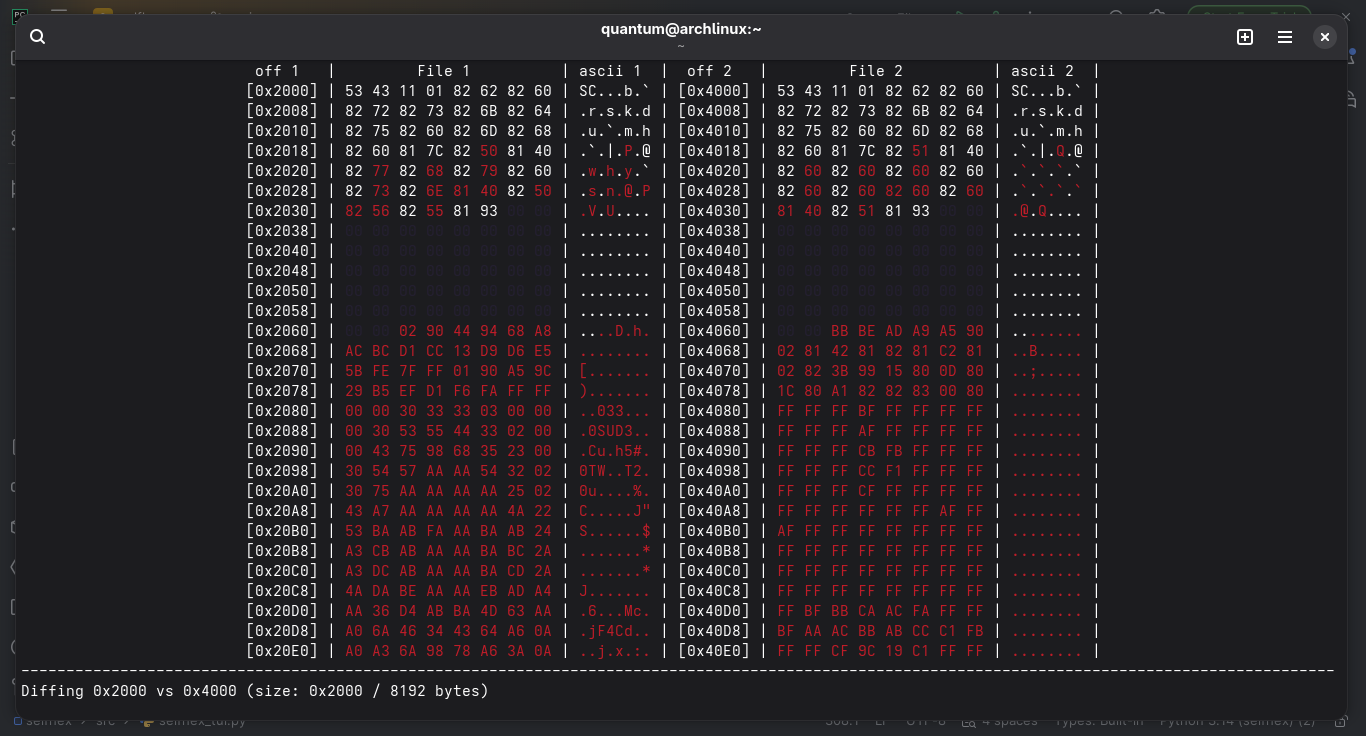
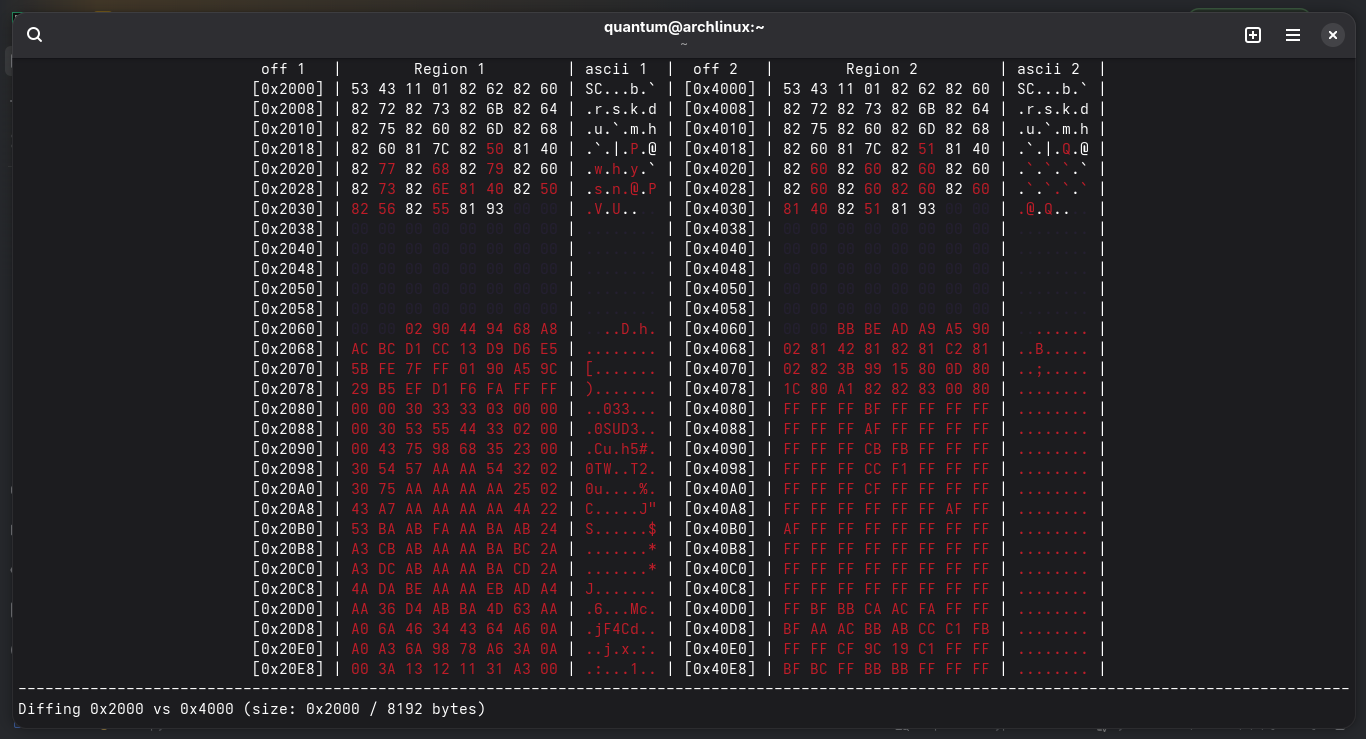
update readme to reflect new version update image to new version of selfhex update wording of image alt/subtext

diff --git a/README.md b/README.md
@@ -7,9 +7,9 @@
 A _self-diffing_ capable hex viewer.  
 Made with ♥ by quantum.
 
-<img alt="selfhex diffing 0x2000 with 0x4000 of the same file" src="assets/diff_example.png"/>
+<img alt="selfhex diffing 0x2000 with 0x4000 of the same file for 0x2000 bytes" src="assets/diff_example.png"/>
 <br>
-<sub>selfhex diffing 0x2000 with 0x4000 of the same file</sub>
+<sub>selfhex diffing 0x2000 with 0x4000 of the same file for 0x2000 bytes</sub>
 
 </div>
 
